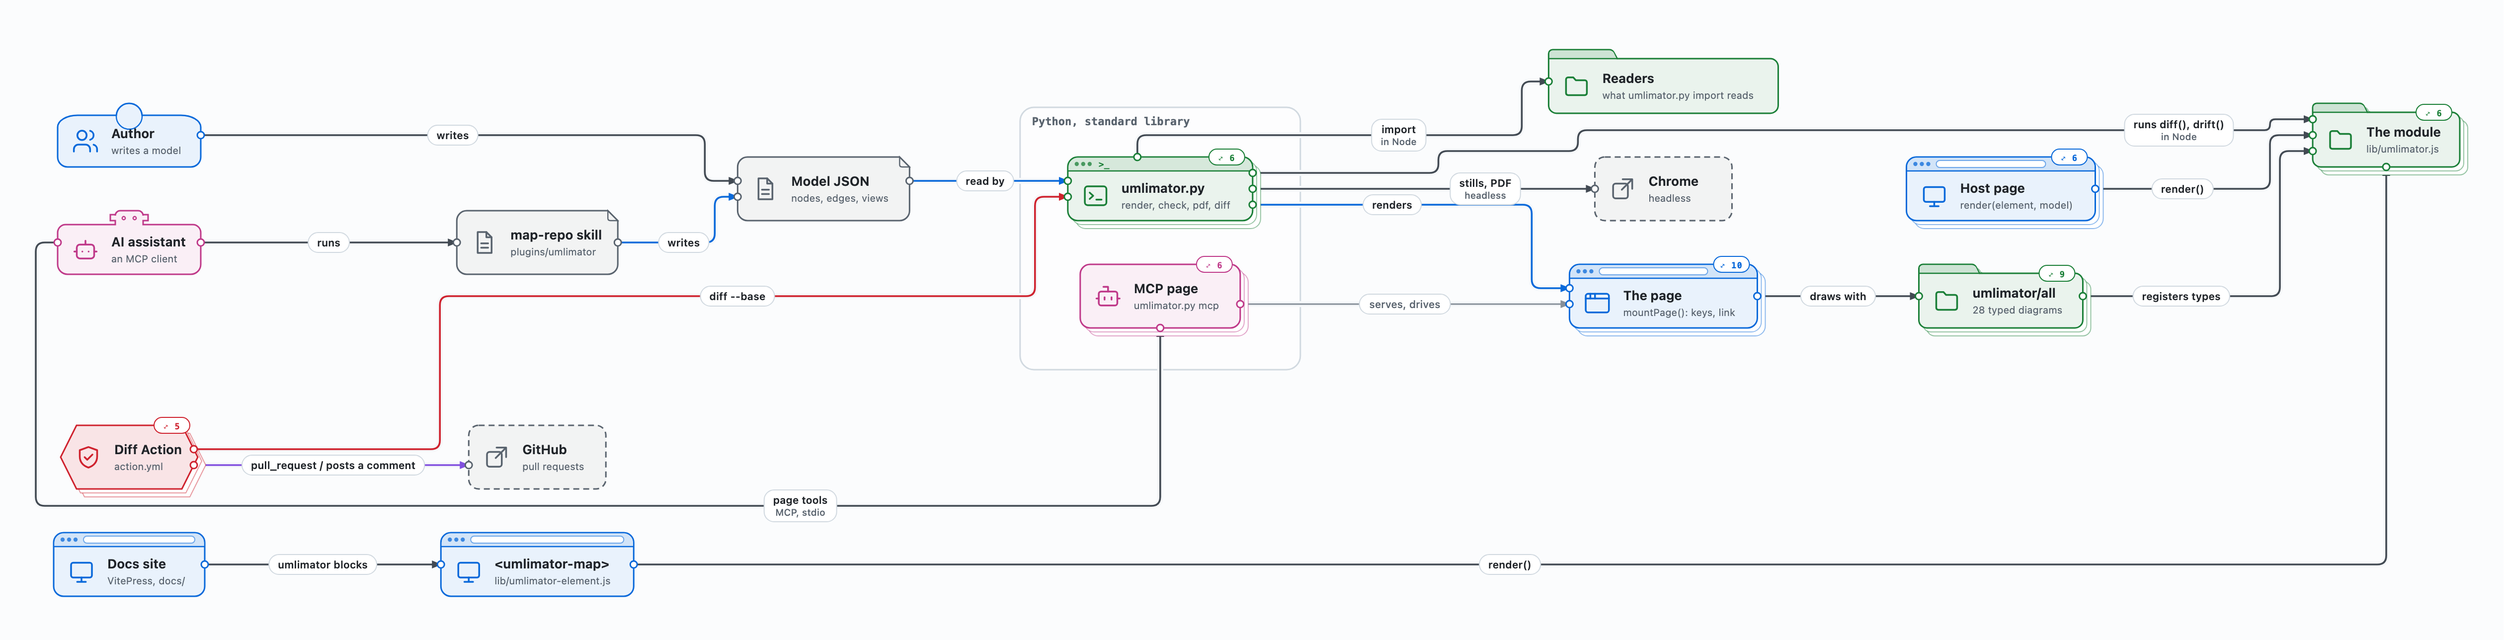
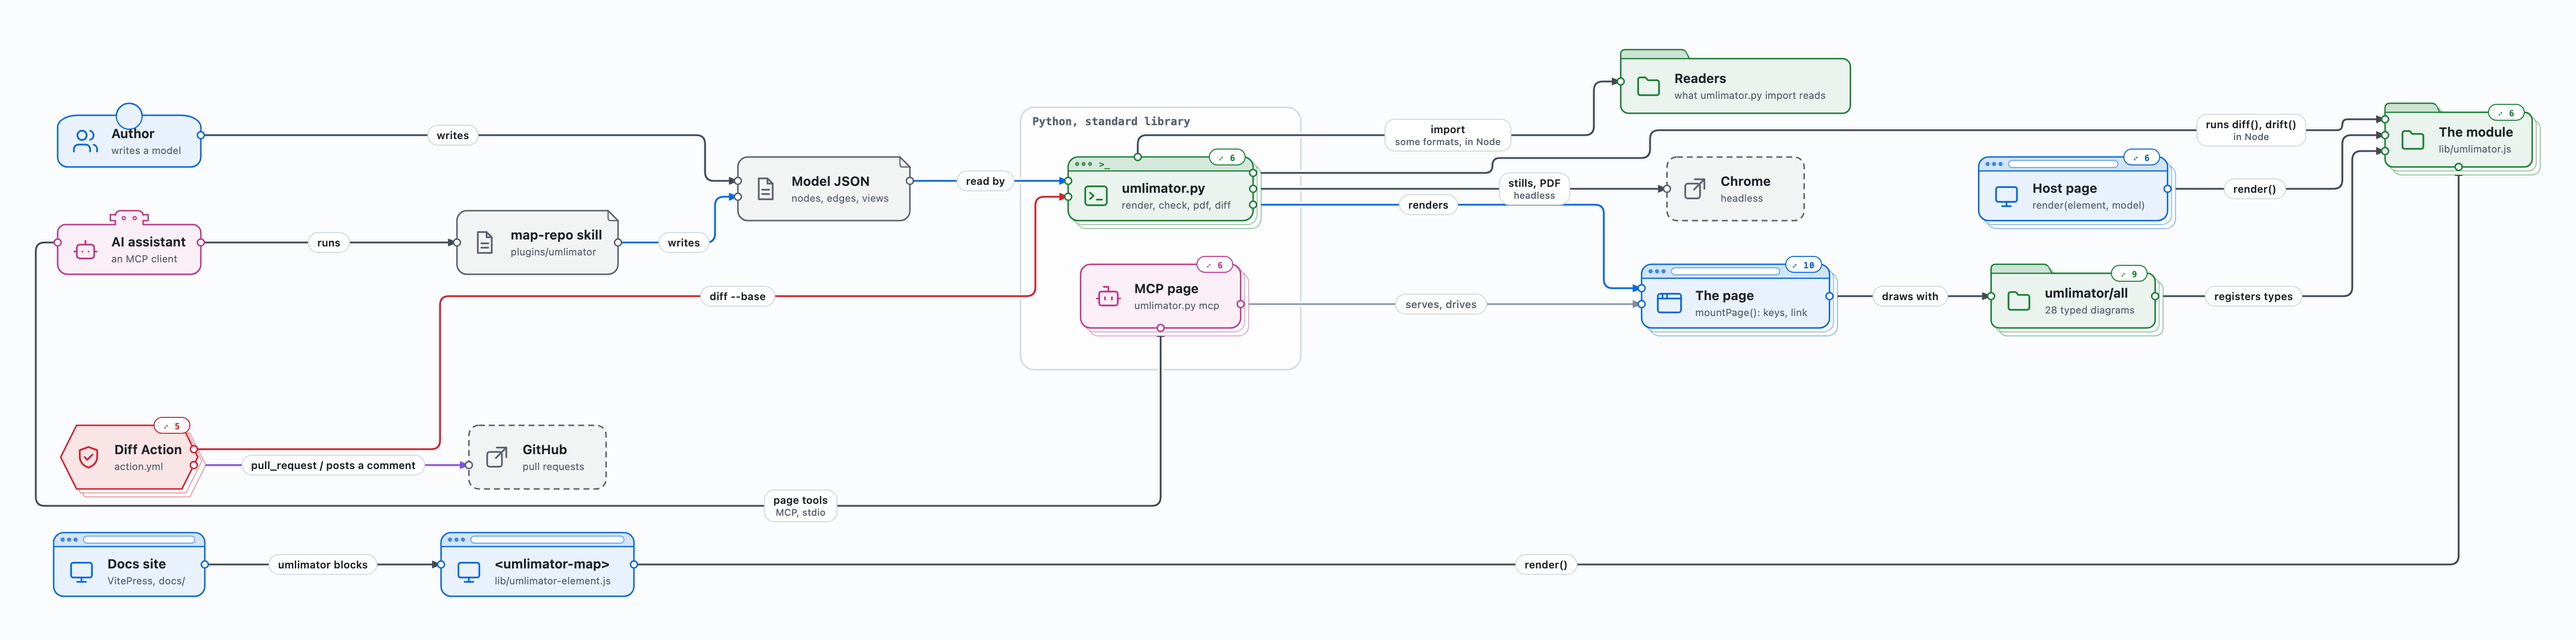
Audit 53 tools lane: tour view choice, types.mjs names, Atlas readers, examples README
- MCP tour and highlight with no view ride the view shown now (shown_view): the view the page
  reported last once it has shown the view asked for last, else that view, else the model's root
  view, as the page opens on it. They took the view asked for last (none on a fresh server), so the
  page jumped to the first view. tests/mcp.py audit 53.
- tools/types.mjs says a name that is no type (and a missing model) in one line and exits 1, not
  with a Node stack trace. tests/types.test.mjs.
- The Umlimator Atlas's Readers card and its import line say which formats are read in Node and
  which in Python (umlimator_import.FORMATS vs NODE_FORMATS). examples/stills/umlimator-atlas-overview.png
  redrawn with umlimator.py stills (overview, defaults): the line's sublabel is now "some formats,
  in Node". tests/gallery.test.mjs checks the card against umlimator_import.py.
- examples/README.md says the LEGACY tests still read examples/ and which tests read the Atlas;
  change.test.mjs audit 48 and c4.test.mjs audit 52 read the integration fixture in place of the
  Atlas, so no test pins its content. tests/showcase.test.mjs checks both.

No src/ change: lib/ and bench/expected.json unchanged.

diff --git a/umlimator_mcp.py b/umlimator_mcp.py
@@ -85,6 +85,7 @@ told = threading.Condition(lock)  # a page reported what it shows
 # highlight: {refs, view}; tour: {n, cards}; story: {n, story}. n: the command that started a tour or story, so a page
 # starts each once, and a tour or story that ended (a page says so) is not played again for a page that opens later.
 want = {"view": None, "highlight": None, "tour": None, "story": None}
+view_n = 0               # the command that last changed want["view"]: a page that has shown it reports the view shown now
 latest = None            # the latest command's event id: a page that connects after it is sent `want`
 pages = {}               # each page by the id it gives itself: q (its event queue while it is open), state, model, ack, seen
 drawn = [None, "", None] # the page as served: the model's version it shows (the last that rendered), its HTML, and that model
@@ -264,7 +265,7 @@ def call(name, a):
             w.update(view=asked, tour=None, story=None, highlight=w["highlight"] if w["highlight"] and w["highlight"]["view"] == asked else None)
     elif name == "highlight":
         lit = refs(m, a["refs"])
-        at = asked or view_for(m, lit, want["view"])
+        at = asked or view_for(m, lit, shown_view(m))
         def fold(w, n):
             w.update(view=at or w["view"], highlight={"refs": lit, "view": at or w["view"]}, story=None)
     elif name == "tour":
@@ -274,7 +275,7 @@ def call(name, a):
             raise Fail(f"no card {', '.join(map(repr, bad))}" + (f" on view {asked!r}" if asked else " in the model"))
         # a tour with no line to ride drew nothing, yet said "Shown" (audit 47); no view shows them all: said as that (audit 48);
         # with no view asked, the first view that shows them all and rides them, not the first that shows them (audit 51)
-        at = rides(m, cards, [asked] if asked else view_for(m, [{"type": "node", "id": c} for c in cards], want["view"], every_view=True))
+        at = rides(m, cards, [asked] if asked else view_for(m, [{"type": "node", "id": c} for c in cards], shown_view(m), every_view=True))
         def fold(w, n):
             w.update(view=at or w["view"], tour={"n": n, "cards": cards}, story=None)
     elif name == "play_story":
@@ -353,9 +354,26 @@ def end(e, k):
     return part.get("part") if isinstance(part, dict) and isinstance(part.get("part"), str) else e.get(k)
 
 
+def shown_view(m):
+    """The view shown now: the one the page that reported last says it shows, once it has shown the view the assistant
+    asked for last (the reader may have moved since); else the view asked for last; else the view a page opens on, the
+    model's root (as the page picks it). A tour or highlight with no view rides it when it can, so the page stays put
+    (audit 53: it took the view asked for last, none on a fresh server, and the page jumped to the first view)."""
+    vs = views(m)
+    with lock:
+        seen = sorted((p for p in pages.values() if isinstance(p.get("state"), dict) and p["state"].get("view") in vs
+                       and num((p.get("ack") or [None])[0]) >= view_n), key=lambda p: p.get("seen") or 0, reverse=True)
+        if seen:
+            return seen[0]["state"]["view"]
+        if want["view"] in vs:
+            return want["view"]
+    root = m.get("root")
+    return root if isinstance(root, str) and root in vs else next((i for i, v in vs.items() if not v.get("parent")), next(iter(vs), None))
+
+
 def view_for(m, lit, current, every_view=False):
     """The view a highlight or tour is about when the call names none: the Refs' own (paths and reach give it), else the
-    view asked for last when it shows all their cards, else the first view that does. A page that opens later shows it
+    view shown now (shown_view) when it shows all their cards, else the first view that does. A page that opens later shows it
     there, never on a view where it would dim every card. every_view: each view that would do, in that order (a list)."""
     named = [r["view"] for r in lit if isinstance(r, dict) and isinstance(r.get("view"), str)]
     if named:
@@ -384,11 +402,13 @@ def command(fold):
     """A page tool's command: folded into `want`, which goes to every open page; then the answer, once the pages have
     shown it (or have not, in WAIT s). The model's latest version is rendered first, so the pages show it, or the last
     version that rendered, and the answer says why."""
-    global latest
+    global latest, view_n
     shown, broken = page()
     with lock:
-        n = next(ids)
+        n, before = next(ids), want["view"]
         fold(want, n)
+        if want["view"] != before:
+            view_n = n
         latest = f"{RUN}-{n}"
         data = event()
         for p in pages.values():

diff --git a/tests/mcp.py b/tests/mcp.py
@@ -129,6 +129,31 @@ ok("audit 52 · tour refuses a card the view draws as a box, and a card that fol
    and said52[1] and "view 'packages' draws 'catalog' as a box" in said52[1] and "view 'packages-2' draws 'catalog' as a box" in said52[1]
    and said52[2] == "'a' follows itself, and no line on view 'v' joins it to itself; paths() gives a route of lines between two cards"
    and "the view shown now if it shows the cards and draws those lines, else the first view that does" in desc52, (said52, desc52))
+# audit 53: a tour or highlight with no view took the view asked for last (none on a fresh server) as the view shown now, so
+# it rode the first view and the page jumped off the root view it opens on, or off the view the reader moved to
+keep53 = (mcp.MODEL, mcp.page, dict(mcp.want), dict(mcp.pages), mcp.view_n)
+mcp.page = lambda: ("v", None)
+rode53 = []
+with tempfile.TemporaryDirectory() as d53:
+    mcp.MODEL = Path(d53) / "two.json"
+    mcp.MODEL.write_text(json.dumps({"root": "second", "nodes": [{"id": x, "label": x} for x in "xyz"], "edges": [{"id": "e", "from": "x", "to": "y"}],
+                                     "views": [{"id": "first", "parent": "second", "nodeIds": ["x", "y"]}, {"id": "second", "nodeIds": ["x", "y", "z"]}]}), encoding="utf-8")
+    def ride53(tool, args):
+        mcp.call(tool, args); rode53.append(mcp.want["view"])
+    mcp.want.update(view=None, highlight=None, tour=None, story=None); mcp.pages.clear()
+    ride53("tour", {"cards": ["x", "y"]})                                    # no page yet: the root view, where a page opens
+    mcp.call("show_view", {"view": "first"})
+    mcp.report("p53", {"state": {"view": "second"}, "ack": "an older command"})  # a page that has not shown show_view yet
+    ride53("tour", {"cards": ["x", "y"]})
+    mcp.call("show_view", {"view": "first"})
+    mcp.report("p53", {"state": {"view": "first"}, "ack": mcp.latest})          # shown, then the reader moves to second
+    mcp.report("p53", {"state": {"view": "second"}})
+    ride53("tour", {"cards": ["x", "y"]})
+    ride53("highlight", {"refs": ["x"]})
+mcp.MODEL, mcp.page, mcp.view_n = keep53[0], keep53[1], keep53[4]
+mcp.want.clear(); mcp.want.update(keep53[2]); mcp.pages.clear(); mcp.pages.update(keep53[3])
+ok("audit 53 · tour and highlight with no view stay on the view shown now: the root view on a fresh server, the view a page reports once it has shown the last one asked for",
+   rode53 == ["second", "first", "second", "second"], rode53)
 # view_for (audit 11): a line with no id, a box, a chip lands on the view that shows it, never on the first view (every card dimmed)
 m = {"nodes": [{"id": x} for x in "abcd"], "edges": [{"from": "c", "to": "d"}], "views": [{"id": "ctx", "nodeIds": ["a", "b"]},
      {"id": "inner", "nodeIds": ["c", "d"], "containers": [{"id": "box", "nodeIds": ["c", "d"]}]}]}

diff --git a/examples/README.md b/examples/README.md
@@ -93,7 +93,7 @@ the real icons with the vendors' legal lines.
 
 ## Why the Umlimator Atlas is not a test model
 
-The tests and the benchmark read their own models, never the showcase: the fixtures in [`../tests/fixtures/`](../tests/fixtures/) and next to each test, and the benchmark's in [`../bench/models/`](../bench/models/). [`umlimator-atlas.json`](umlimator-atlas.json), umlimator drawn by itself, is the gallery's Atlas and stays out of the bench and every layout, hash and count pin; only the gallery and doc-name tests read it, to check that its links and export names exist. It has no honest trace, latency or cost data, no hardware for SysML and no business process for BPMN, and its content changes with the code, so a pinned picture of it would describe last month's umlimator. CI renders it, checks its layout and validates it, with nothing about its content pinned.
+The tests and the benchmark read their own models: the fixtures in [`../tests/fixtures/`](../tests/fixtures/) and next to each test, and the benchmark's in [`../bench/models/`](../bench/models/). A new test never reads the showcase. The older tests listed as `LEGACY` in [`../tests/showcase.test.mjs`](../tests/showcase.test.mjs) still read models in `examples/` until each moves to a fixture of its own; that list only shrinks, and the test fails when a file not on it starts reading `examples/`. [`umlimator-atlas.json`](umlimator-atlas.json), umlimator drawn by itself, is the gallery's Atlas and stays out of the bench and every layout, hash and count pin. The gallery and docs tests read it to check that its links, its export names and the docs' quotes of it hold, and that its Readers card says where each import format is read, the showcase test validates it and lays out each view, as it does every model in `examples/`, and [`edit.html`](edit.html), which the editing tests open, draws it. It has no honest trace, latency or cost data, no hardware for SysML and no business process for BPMN, and its content changes with the code, so a pinned picture of it would describe last month's umlimator. CI renders it, checks its layout and validates it, with nothing about its content pinned.
 
 ## Host pages
 
